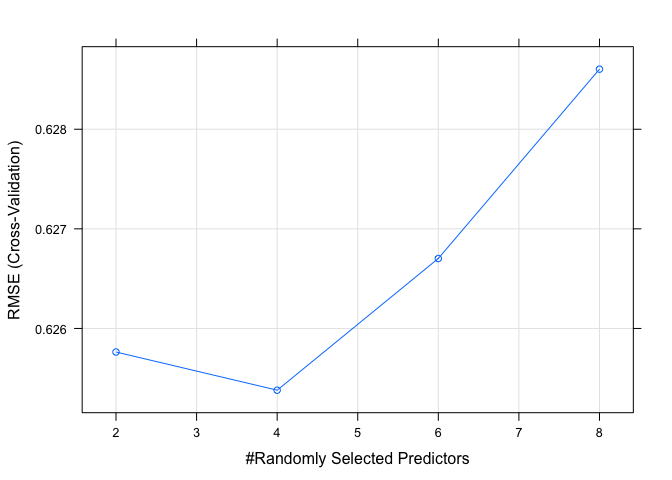
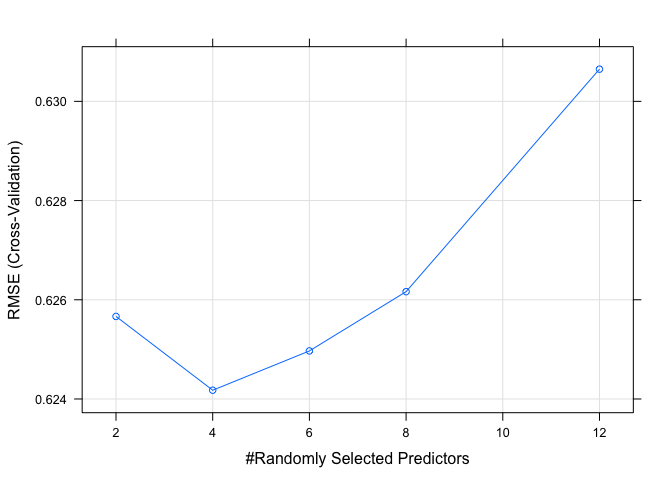
show time

diff --git a/SAPiO_wine_time.md b/SAPiO_wine_time.md
@@ -1,6 +1,6 @@
 SAP.iO Data Science Challenge
 ================
-Ki Ka
+kian kamyab
 February 12, 2018
 
 *What makes a wine 'good'?*
@@ -8,7 +8,7 @@ February 12, 2018
 
 I love wine. I first fell in love with Grüner Veltliner. It screams summer. It makes you want to swim in the Danube, even in the winter. That doesn't mean that you should.
 
-We're interested in what makes a good wine. Let's find out. On its face (or bottle's label?) this is a classification problem. Since we're interested in the *what* of wine quality, I'll avoid less interpretable models that might do quite well at predicting wine quality--like support vector machines or neural nets. I can see logistic regression/linear discriminant analysis, k-nearest neighbors, or some flavor of decision tree being useful.
+We're interested in what makes a good wine. Let's find out. On its face (or bottle's label?) this is a classification problem. Since we're interested in the *what* of wine quality, I'll avoid less interpretable models that might do quite well at predicting wine quality--like support vector machines or neural nets.
 
 Here's an outline to my approach in getting us from grape to glass--
 
@@ -17,14 +17,9 @@ Here's an outline to my approach in getting us from grape to glass--
     -   What do they look like (distributions, missingness)
     -   How do they relate to each other (correlations)
 -   Decanting the data - feature engineering
-    -   Transformations and dimension reduction
-    -   Imputation of missing values
-    -   Target prep
 -   See, sniff, & sip - modeling
-    -   Logisitic regression
-    -   CART
-    -   KNN
--   Next pour - What I'd do if time were as plentiful as 2-buck-chuck
+    -   Random Forest
+-   Next pour - if time were as plentiful as 2-buck-chuck
 
 Uncorking the data
 ------------------
@@ -154,7 +149,7 @@ for (i in names(sapWineTime[,(apply(sapWineTime, 2, function(x) length(unique(x)
 
 <img src="SAPiO_wine_time_files/figure-markdown_github/uncorking the data - distributions-12.png" style="display: block; margin: auto;" />
 
-These distributions don't look too worrisome. Some make complete sense. In my time working behind a bar and learning about the production of wine, the right-skewed distributions of `citric.acid`, `free.sulfur.dioxide`, and `total.sulfur.dioxide` in red wines and `residual.sugar` in both red and white wines make contextual sense. I can taste some of the `residual.sugar` outliers, maybe some Sauternes or Rieslings...
+These distributions don't look too worrisome. Some make complete sense. In my time working behind a bar and learning about the production of wine, the right-skewed distributions of `citric.acid`, `free.sulfur.dioxide`, and `total.sulfur.dioxide` in red wines and `residual.sugar` in both red and white wines make contextual sense.
 
 #### Missingness
 
@@ -167,7 +162,7 @@ Missingness is always an issue with real data. Hopefully it's missing at random.
 ``` r
 # here i'm creating a summary data frame aggregated to the type and type+quality-level 
 # with a count of missing values and proportion of observations with missing values
-# for each of the physiochemical variables
+# for each of the physicochemical variables
 
 # type-level missingness
 #
@@ -333,7 +328,7 @@ It looks like values are missing at random. For the sake of time, we're going to
 
 ### How do measures relate?
 
-I have a very strong suspicion that the physiochemical characteristics of wine are correlated and these correlations differ by wine type. I'll take a visual approach in assessing these correlations. This will help me do three things:
+I have a very strong suspicion that the physicochemical characteristics of wine are correlated and these correlations differ by wine type. I'll take a visual approach in assessing these correlations. This will help me do three things:
 
 1.  What measures seem to be related with quality?
 2.  Do some measures tell me the same information?
@@ -457,15 +452,11 @@ For the purposes of a prelimary model, I think there is evidence to run separate
 
 ### Decanting the data
 
-#### Target prep
-
-sapWineTimeRed %&gt;% group\_by
+You know what, I'm going to pour these data into a random forest model for a variety of reasons, one of which is not having to do much feature engineering. For other types of models, we'd have to decant the data a bit more.
 
 ### See, Sniff, and Sip - Modeling
 
-We'll fit a random forest
-
-### 
+I've decided to take a walk through a random forest. While a random forest model poses some limitations in trying to assess what makes a good wine, I think as a preliminary analysis, it poses a number of advantages I'll touch upon when looking at the results.
 
 ``` r
 # setting a seed for reproducibility 
@@ -499,7 +490,7 @@ sapWineTimeModelIndex <- sample.split(row.names(sapWineTimeModel), SplitRatio = 
 sapWineTimeTrain <- sapWineTimeModel[sapWineTimeModelIndex, ]
 sapWineTimeTest <- sapWineTimeModel[!sapWineTimeModelIndex, ]
 
-# fitting a random forest model 
+# fitting a random forest model
 #
 
 model <- 
@@ -511,53 +502,7 @@ model <-
         trControl = trainControl(method = "cv", number = 5, verboseIter = TRUE),
         importance = TRUE
 )
-```
 
-    ## + Fold1: mtry=2 
-    ## - Fold1: mtry=2 
-    ## + Fold1: mtry=4 
-    ## - Fold1: mtry=4 
-    ## + Fold1: mtry=6 
-    ## - Fold1: mtry=6 
-    ## + Fold1: mtry=8 
-    ## - Fold1: mtry=8 
-    ## + Fold2: mtry=2 
-    ## - Fold2: mtry=2 
-    ## + Fold2: mtry=4 
-    ## - Fold2: mtry=4 
-    ## + Fold2: mtry=6 
-    ## - Fold2: mtry=6 
-    ## + Fold2: mtry=8 
-    ## - Fold2: mtry=8 
-    ## + Fold3: mtry=2 
-    ## - Fold3: mtry=2 
-    ## + Fold3: mtry=4 
-    ## - Fold3: mtry=4 
-    ## + Fold3: mtry=6 
-    ## - Fold3: mtry=6 
-    ## + Fold3: mtry=8 
-    ## - Fold3: mtry=8 
-    ## + Fold4: mtry=2 
-    ## - Fold4: mtry=2 
-    ## + Fold4: mtry=4 
-    ## - Fold4: mtry=4 
-    ## + Fold4: mtry=6 
-    ## - Fold4: mtry=6 
-    ## + Fold4: mtry=8 
-    ## - Fold4: mtry=8 
-    ## + Fold5: mtry=2 
-    ## - Fold5: mtry=2 
-    ## + Fold5: mtry=4 
-    ## - Fold5: mtry=4 
-    ## + Fold5: mtry=6 
-    ## - Fold5: mtry=6 
-    ## + Fold5: mtry=8 
-    ## - Fold5: mtry=8 
-    ## Aggregating results
-    ## Selecting tuning parameters
-    ## Fitting mtry = 4 on full training set
-
-``` r
 ### white wines
 
 # dropping highly correlated variables 
@@ -586,53 +531,7 @@ modelWhite <-
         trControl = trainControl(method = "cv", number = 5, verboseIter = TRUE),
         importance = TRUE
 )
-```
 
-    ## + Fold1: mtry=2 
-    ## - Fold1: mtry=2 
-    ## + Fold1: mtry=4 
-    ## - Fold1: mtry=4 
-    ## + Fold1: mtry=6 
-    ## - Fold1: mtry=6 
-    ## + Fold1: mtry=8 
-    ## - Fold1: mtry=8 
-    ## + Fold2: mtry=2 
-    ## - Fold2: mtry=2 
-    ## + Fold2: mtry=4 
-    ## - Fold2: mtry=4 
-    ## + Fold2: mtry=6 
-    ## - Fold2: mtry=6 
-    ## + Fold2: mtry=8 
-    ## - Fold2: mtry=8 
-    ## + Fold3: mtry=2 
-    ## - Fold3: mtry=2 
-    ## + Fold3: mtry=4 
-    ## - Fold3: mtry=4 
-    ## + Fold3: mtry=6 
-    ## - Fold3: mtry=6 
-    ## + Fold3: mtry=8 
-    ## - Fold3: mtry=8 
-    ## + Fold4: mtry=2 
-    ## - Fold4: mtry=2 
-    ## + Fold4: mtry=4 
-    ## - Fold4: mtry=4 
-    ## + Fold4: mtry=6 
-    ## - Fold4: mtry=6 
-    ## + Fold4: mtry=8 
-    ## - Fold4: mtry=8 
-    ## + Fold5: mtry=2 
-    ## - Fold5: mtry=2 
-    ## + Fold5: mtry=4 
-    ## - Fold5: mtry=4 
-    ## + Fold5: mtry=6 
-    ## - Fold5: mtry=6 
-    ## + Fold5: mtry=8 
-    ## - Fold5: mtry=8 
-    ## Aggregating results
-    ## Selecting tuning parameters
-    ## Fitting mtry = 4 on full training set
-
-``` r
 #### Red Wines
 
 # dropping highly correlated variables 
@@ -654,7 +553,7 @@ sapWineTimeRedTest <- sapWineTimeRedModel[!sapWineTimeRedModelIndex, ]
 
 modelRed <- 
   train(quality ~ .,
-        tuneGrid = data.frame(mtry = c(2, 4, 6, 8)),
+        tuneGrid = data.frame(mtry = c(2, 4, 6, 8, 12)),
         data = sapWineTimeRedTrain, 
         method = 'rf',
         preProcess = c('scale', 'center'), 
@@ -663,49 +562,11 @@ modelRed <-
 )
 ```
 
-    ## + Fold1: mtry=2 
-    ## - Fold1: mtry=2 
-    ## + Fold1: mtry=4 
-    ## - Fold1: mtry=4 
-    ## + Fold1: mtry=6 
-    ## - Fold1: mtry=6 
-    ## + Fold1: mtry=8 
-    ## - Fold1: mtry=8 
-    ## + Fold2: mtry=2 
-    ## - Fold2: mtry=2 
-    ## + Fold2: mtry=4 
-    ## - Fold2: mtry=4 
-    ## + Fold2: mtry=6 
-    ## - Fold2: mtry=6 
-    ## + Fold2: mtry=8 
-    ## - Fold2: mtry=8 
-    ## + Fold3: mtry=2 
-    ## - Fold3: mtry=2 
-    ## + Fold3: mtry=4 
-    ## - Fold3: mtry=4 
-    ## + Fold3: mtry=6 
-    ## - Fold3: mtry=6 
-    ## + Fold3: mtry=8 
-    ## - Fold3: mtry=8 
-    ## + Fold4: mtry=2 
-    ## - Fold4: mtry=2 
-    ## + Fold4: mtry=4 
-    ## - Fold4: mtry=4 
-    ## + Fold4: mtry=6 
-    ## - Fold4: mtry=6 
-    ## + Fold4: mtry=8 
-    ## - Fold4: mtry=8 
-    ## + Fold5: mtry=2 
-    ## - Fold5: mtry=2 
-    ## + Fold5: mtry=4 
-    ## - Fold5: mtry=4 
-    ## + Fold5: mtry=6 
-    ## - Fold5: mtry=6 
-    ## + Fold5: mtry=8 
-    ## - Fold5: mtry=8 
-    ## Aggregating results
-    ## Selecting tuning parameters
-    ## Fitting mtry = 4 on full training set
+#### Exploring results
+
+Here we'll take a look at a plot of RMSE by the number of predictors selected to evaluate each tree's split (which informs tuning a random forest), variable importance (basically, how much does MSE change if we shuffled the values of each predictor), and model RMSE, R^2, and MAE.
+
+First, all wines, then white wines, and finally red wines.
 
 ``` r
 # all wines
@@ -802,17 +663,17 @@ plot(modelRed)
 varImp(modelRed$finalModel)
 ```
 
-    ##                        Overall
-    ## volatile.acidity     32.657407
-    ## citric.acid          20.887324
-    ## chlorides            21.063530
-    ## free.sulfur.dioxide  17.637264
-    ## total.sulfur.dioxide 29.512233
-    ## density              24.033739
-    ## pH                   19.166538
-    ## sulphates            51.268711
-    ## alcohol              58.396739
-    ## vintage              -3.204679
+    ##                         Overall
+    ## volatile.acidity     32.9586902
+    ## citric.acid          20.2356202
+    ## chlorides            23.3502440
+    ## free.sulfur.dioxide  16.2976840
+    ## total.sulfur.dioxide 31.6620406
+    ## density              25.1654396
+    ## pH                   21.0013527
+    ## sulphates            47.6665851
+    ## alcohol              61.2870524
+    ## vintage               0.6595523
 
 ``` r
 modelRedPlot <- varImpPlot(modelRed$finalModel)
@@ -827,21 +688,33 @@ defaultSummary(predRedQualTest)
 ```
 
     ##      RMSE  Rsquared       MAE 
-    ## 0.5608716 0.4853668 0.4231938
+    ## 0.5599837 0.4866800 0.4240723
 
-### If time were as plentiful as two-buck chuck
+Random forests are nice for a first look in that I don't have to do much feature engineering, they perform relatively well, and they can point me in the direction of which of the physicochemical properties of wine are predictive of quality. The primary drawback is that a random forest model doesn't give me as granular of a look at the direction and magnitude of the phsyicochemical-quality relationship as say a logistic regression or a decision tree.
+
+The results of the random forest suggests that for wines overall, `alcohol` and `volatile.acidity` are highly predictive of quality ratings relative to other physicochemical properties. This is similar for white wines. Red wines, `alcohol` and `sulphates` have the greatest predictive power. We don't have much of a sense of which direction of these relationships, which is something we can explore utilizing other models.
+
+### Next pour - if time were as plentiful as 2-buck-chuck
 
 -   Measures
-    -   I'd take a little time to brush up on some of the physiochemical measures and how they relate to the winemaking process--context matters!
+    -   I'd take a little time to brush up on some of the physicochemical measures and how they relate to the winemaking process--context matters!
+    -   consider transformations/binning
 -   Missingness
-    -   Imputation
+    -   explore imputation
+    -   consider the use of binned variables and include a 'missing' category
 -   Correlations
     -   more meaningful investigation of correlation differences
     -   dimension reduction through principal components or factor analyses (at the risk of losing interpretability)
 -   Feature engineering
-    -   use of principal components or factors, but this would come at the cost of interpretability
+    -   use of principal components or factors to mitigate , but this would come at the cost of interpretability
 -   Modeling
-    -   logistic regression and interaction investigation!
-    -   ordered logistic regressions
+    -   logistic regression and interaction investigation (it's likely wine type interacts with physicochemical characteristics in the relationship with quality ratings)
+    -   ordered logistic regression
     -   linear discriminant analysis
+    -   plan ole' decision tree
     -   ensembling
+-   Programming
+    -   use of functions for repeated tasks
+    -   clean up output a bit
+-   Misc
+    -   drink more wine
